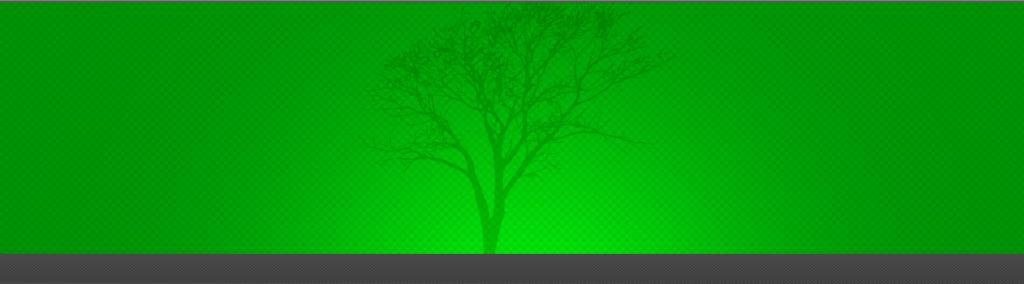
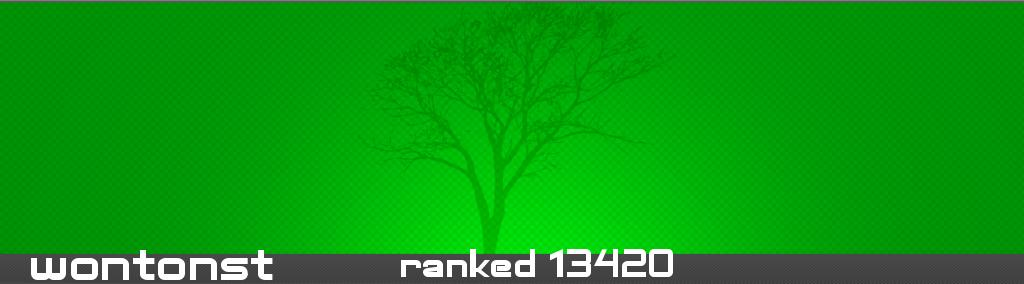
revision of generation, lacks design

Changed region(s): [[0.375, 0.8732, 0.6562, 0.9859], [0.0312, 0.8732, 0.2812, 0.9859]]

diff --git a/WhatPulseImage.php b/WhatPulseImage.php
@@ -4,6 +4,9 @@ define('BG','bg/');
 define('FONT','fonts/');
 
 function create_image() {
+
+$font = FONT.'adventure_subtitles.ttf';
+
     $image = imagecreatefrompng(BG.'tree.png');
 
     //We are making three colors, white, black and gray
@@ -12,14 +15,12 @@ function create_image() {
     $grey = ImageColorAllocate($image, 204, 204, 204);
 
 //adding username
-    imagettftext($image, 20, 0.0, 0,0,$white,FONT.'adventure_subtitles.ttf','wontonst' );
+    imagettftext($image, 40, 0.0, 30,280,$white,$font,'wontonst' );
+imagettftext($image,30,0.0,400,277,$white,$font,'ranked 13420');
 
+    ImageJpeg($image,'out.jpg'); //output
 
-    //Output the newly created image in jpeg format
-    ImageJpeg($image,'out.jpg');
-
-    //Free up resources
-    ImageDestroy($image);
+    ImageDestroy($image);    //free up resources
 
 }
 
